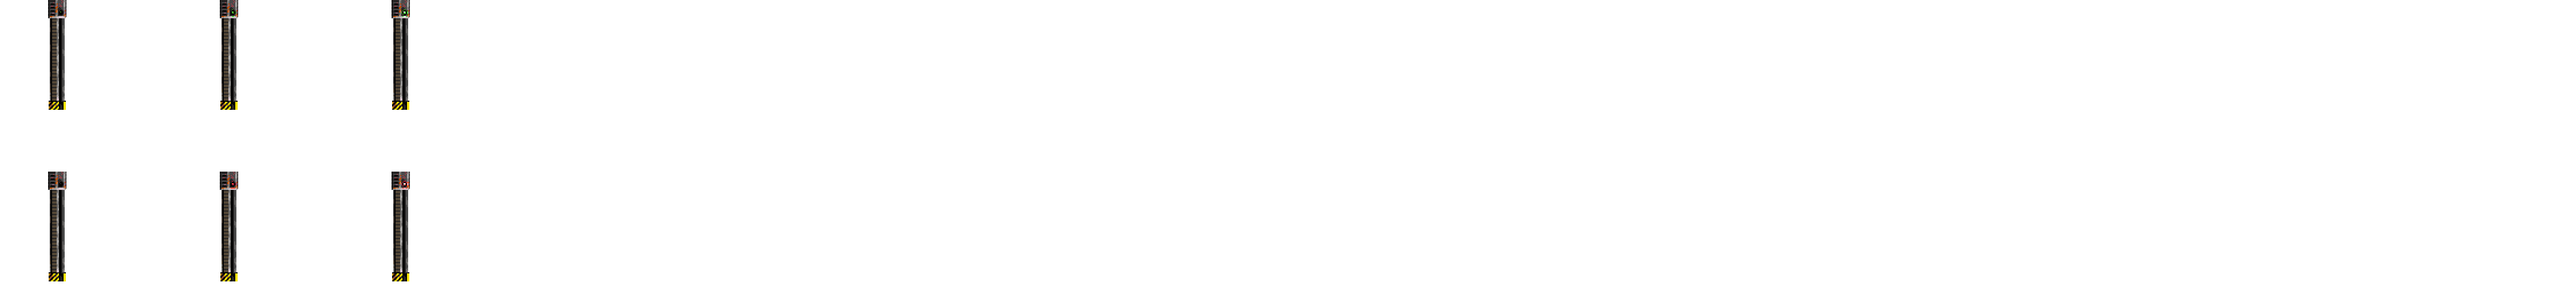
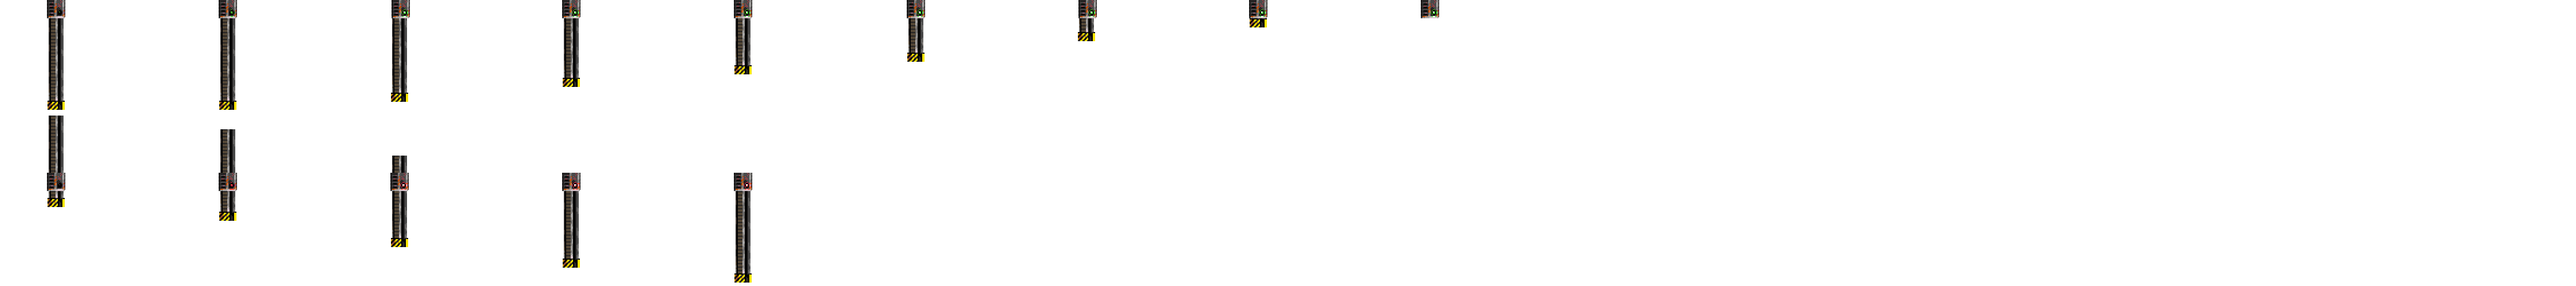
feat Cam구현

diff --git a/WinAPI/CSlidingDoor.cpp b/WinAPI/CSlidingDoor.cpp
@@ -3,8 +3,9 @@
 
 CSlidingDoor::CSlidingDoor()
 {
-	m_layer = Layer::StageObject;
-	m_strName = L"SlidingDoor";
+	m_layer = Layer::Cam;
+	m_strName = L"Wall";
+	m_fTimer = 0.01f;
 }
 
 CSlidingDoor::~CSlidingDoor()
@@ -15,8 +16,8 @@ void CSlidingDoor::Init()
 {
 	pImage = RESOURCE->LoadImg(L"SD", L"Image\\cam\\SlidingDoor.png");
 	m_pAnimator = new CAnimator;
-	m_pAnimator->CreateAnimation(L"GreenSD", pImage, Vector(0.f, 0.f), Vector(200.f, 200.f), Vector(300.f, 0.f), 0.2f, 3, false);
-	m_pAnimator->CreateAnimation(L"RedSD", pImage, Vector(0.f, 300.f), Vector(200.f, 200.f), Vector(300.f, 0.f), 0.2f, 3, false);
+	m_pAnimator->CreateAnimation(L"GreenSD", pImage, Vector(0.f, 0.f), Vector(200.f, 200.f), Vector(300.f, 0.f), 0.1f, 8, false);
+	m_pAnimator->CreateAnimation(L"RedSD", pImage, Vector(0.f, 300.f), Vector(200.f, 200.f), Vector(300.f, 0.f), 0.1f, 5, false);
 
 	m_pAnimator->Play(L"GreenSD", true);
 
@@ -29,6 +30,23 @@ void CSlidingDoor::Init()
 void CSlidingDoor::Update()
 {
 	AnimatorUpdate();
+
+	if (GAME->CamRed)
+	{
+		m_bRed = true;
+		m_fTimer = 0.01f;
+		AddCollider(ColliderType::Rect, Vector(30, 200), Vector(0, 0));
+	}
+	else
+	{
+		m_bRed = false;
+		m_fTimer -= DT;
+
+		if(m_fTimer <= 0)
+		{
+			RemoveCollider();
+		}
+	}
 
 }
 

diff --git a/WinAPI/CCam.cpp b/WinAPI/CCam.cpp
@@ -13,17 +13,19 @@ CCam::~CCam()
 
 void CCam::Init()
 {
-	pImage = RESOURCE->LoadImg(L"Cam", L"Image\\cam\\cam.png");
+	pImage = RESOURCE->LoadImg(L"Cam", L"Image\\cam\\cam2.png");
 	m_pAnimator = new CAnimator;
-	m_pAnimator->CreateAnimation(L"GreenCam", pImage, Vector(0.f, 0.f), Vector(200.f, 200.f), Vector(300.f, 0.f), 0.2f, 1, false);
-	m_pAnimator->CreateAnimation(L"RedCam", pImage, Vector(0.f, 300.f), Vector(200.f, 200.f), Vector(300.f, 0.f), 0.2f, 1, false);
+	//m_pAnimator->CreateAnimation(L"GreenCam", pImage, Vector(0.f, 0.f), Vector(200.f, 200.f), Vector(300.f, 0.f), 0.2f, 1, false);
+	m_pAnimator->CreateAnimation(L"GreenCam", pImage, Vector(0.f, 0.f), Vector(500.f, 280.f), Vector(300.f, 0.f), 0.2f, 1, false);
+	//m_pAnimator->CreateAnimation(L"RedCam", pImage, Vector(0.f, 300.f), Vector(200.f, 200.f), Vector(300.f, 0.f), 0.2f, 1, false);
+	m_pAnimator->CreateAnimation(L"RedCam", pImage, Vector(600.f, 0.f), Vector(500.f, 280.f), Vector(300.f, 0.f), 0.2f, 1, false);
 	
 	m_pAnimator->Play(L"GreenCam", true);
 
 
 	AddComponent(m_pAnimator);
 
-	AddCollider(ColliderType::Rect, Vector(100, 100), Vector(0, 0));
+	AddCollider(ColliderType::Rect, Vector(500, 100), Vector(0, 100));
 }
 
 void CCam::Update()

diff --git a/WinAPI/CSceneStage01.cpp b/WinAPI/CSceneStage01.cpp
@@ -18,6 +18,8 @@
 #include "CSubWeapon.h"
 #include "CLaser.h"
 #include "CLaserSwitch.h"
+#include "CCam.h"
+#include "CSlidingDoor.h"
 
 #include "CCameraController.h"
 #include "CButton.h"
@@ -119,6 +121,13 @@ void CSceneStage01::Init()
 	pLaserSwitch->SetPos(1477, 694);
 	AddGameObject(pLaserSwitch);
 
+	//CCam* pCam = new CCam;
+	//pCam->SetPos(453, 356);
+	//AddGameObject(pCam);
+
+	//CSlidingDoor* pSD = new CSlidingDoor;
+	//pSD->SetPos(547, 356);
+	//AddGameObject(pSD);
 
 	CCameraController* pCamController = new CCameraController;
 	

diff --git a/WinAPI/CCollisionManager.cpp b/WinAPI/CCollisionManager.cpp
@@ -24,6 +24,7 @@ void CCollisionManager::Init()
 	CheckLayer(Layer::Laser, Layer::Player);
 	//CheckLayer(Layer::Monster, Layer::Player);
 	CheckLayer(Layer::EnemyMissile, Layer::Player);
+	CheckLayer(Layer::Cam, Layer::Player);
 	CheckLayer(Layer::EnemyMissile, Layer::Missile);
 	
 	CheckLayer(Layer::Tile, Layer::Player);

diff --git a/WinAPI/CSlidingDoor.h b/WinAPI/CSlidingDoor.h
@@ -13,6 +13,7 @@ private:
     CImage* pImage;
     CAnimator* m_pAnimator;
     bool m_bRed;
+    float m_fTimer;
 
     void Init() override;
     void Update() override;
